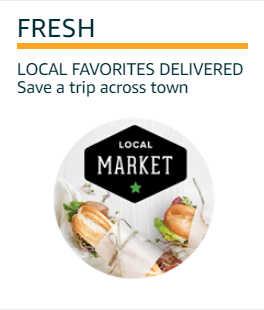
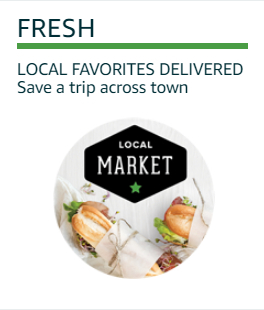
added section 4 recent

Changed region(s): [[0.0606, 0.1161, 0.9394, 0.1742]]

diff --git a/css/styles.css b/css/styles.css
@@ -1,45 +1,33 @@
-.navbar {
-  background-color: #222e3e;
-  display: flex;
-  position: relative; }
+/*
+Errno::EACCES: Permission denied @ unlink_internal - .sass-cache/4a991a89f26c873a8371b34feb04ca6514153998/styles.scssc
 
-.menu {
-  display: flex;
-  align-content: flex-start; }
-  .menu a:link {
-    text-decoration: none;
-    color: white; }
-  .menu a:visited {
-    text-decoration: none;
-    color: white; }
-  .menu a:hover {
-    color: #FF9900;
-    font-weight: bold; }
-  .menu ul {
-    width: 100%; }
-  .menu ul li {
-    list-style: none;
-    float: left; }
-  .menu .nav-left {
-    width: 100px; }
-  .menu img {
-    display: block; }
-
-.hero {
-  width: 100%;
-  background: #eaeded;
-  padding-top: 10px; }
-
-.container-fluid {
-  background: #eaeded;
-  margin: auto; }
-
-.cards {
-  height: 240px;
-  padding: 10px 5.5px; }
-
-.explore {
-  width: 100%;
-  height: 45px; }
-
-/*# sourceMappingURL=styles.css.map */
+Backtrace:
+C:/Ruby24-x64/lib/ruby/gems/2.4.0/gems/sass-3.5.2/lib/sass/cache_stores/filesystem.rb:26:in `unlink'
+C:/Ruby24-x64/lib/ruby/gems/2.4.0/gems/sass-3.5.2/lib/sass/cache_stores/filesystem.rb:26:in `_retrieve'
+C:/Ruby24-x64/lib/ruby/gems/2.4.0/gems/sass-3.5.2/lib/sass/cache_stores/base.rb:63:in `retrieve'
+C:/Ruby24-x64/lib/ruby/gems/2.4.0/gems/sass-3.5.2/lib/sass/cache_stores/chain.rb:25:in `block in retrieve'
+C:/Ruby24-x64/lib/ruby/gems/2.4.0/gems/sass-3.5.2/lib/sass/cache_stores/chain.rb:24:in `each'
+C:/Ruby24-x64/lib/ruby/gems/2.4.0/gems/sass-3.5.2/lib/sass/cache_stores/chain.rb:24:in `each_with_index'
+C:/Ruby24-x64/lib/ruby/gems/2.4.0/gems/sass-3.5.2/lib/sass/cache_stores/chain.rb:24:in `retrieve'
+C:/Ruby24-x64/lib/ruby/gems/2.4.0/gems/sass-3.5.2/lib/sass/engine.rb:407:in `_to_tree'
+C:/Ruby24-x64/lib/ruby/gems/2.4.0/gems/sass-3.5.2/lib/sass/engine.rb:389:in `_render_with_sourcemap'
+C:/Ruby24-x64/lib/ruby/gems/2.4.0/gems/sass-3.5.2/lib/sass/engine.rb:307:in `render_with_sourcemap'
+C:/Ruby24-x64/lib/ruby/gems/2.4.0/gems/sass-3.5.2/lib/sass/plugin/compiler.rb:462:in `update_stylesheet'
+C:/Ruby24-x64/lib/ruby/gems/2.4.0/gems/sass-3.5.2/lib/sass/plugin/compiler.rb:215:in `block in update_stylesheets'
+C:/Ruby24-x64/lib/ruby/gems/2.4.0/gems/sass-3.5.2/lib/sass/plugin/compiler.rb:209:in `each'
+C:/Ruby24-x64/lib/ruby/gems/2.4.0/gems/sass-3.5.2/lib/sass/plugin/compiler.rb:209:in `update_stylesheets'
+C:/Ruby24-x64/lib/ruby/gems/2.4.0/gems/sass-3.5.2/lib/sass/plugin/compiler.rb:443:in `on_file_changed'
+C:/Ruby24-x64/lib/ruby/gems/2.4.0/gems/sass-3.5.2/lib/sass/plugin/compiler.rb:320:in `block in watch'
+C:/Ruby24-x64/lib/ruby/gems/2.4.0/gems/sass-listen-4.0.0/lib/sass-listen/event/config.rb:23:in `call'
+C:/Ruby24-x64/lib/ruby/gems/2.4.0/gems/sass-listen-4.0.0/lib/sass-listen/event/processor.rb:115:in `_process_changes'
+C:/Ruby24-x64/lib/ruby/gems/2.4.0/gems/sass-listen-4.0.0/lib/sass-listen/event/processor.rb:19:in `block in loop_for'
+C:/Ruby24-x64/lib/ruby/gems/2.4.0/gems/sass-listen-4.0.0/lib/sass-listen/event/processor.rb:15:in `loop'
+C:/Ruby24-x64/lib/ruby/gems/2.4.0/gems/sass-listen-4.0.0/lib/sass-listen/event/processor.rb:15:in `loop_for'
+C:/Ruby24-x64/lib/ruby/gems/2.4.0/gems/sass-listen-4.0.0/lib/sass-listen/event/loop.rb:84:in `_wait_for_changes'
+C:/Ruby24-x64/lib/ruby/gems/2.4.0/gems/sass-listen-4.0.0/lib/sass-listen/event/loop.rb:42:in `block in setup'
+C:/Ruby24-x64/lib/ruby/gems/2.4.0/gems/sass-listen-4.0.0/lib/sass-listen/internals/thread_pool.rb:6:in `block in add'
+*/
+body:before {
+  white-space: pre;
+  font-family: monospace;
+  content: "Errno::EACCES: Permission denied @ unlink_internal - .sass-cache/4a991a89f26c873a8371b34feb04ca6514153998/styles.scssc"; }

diff --git a/index.html b/index.html
@@ -84,7 +84,15 @@
     <div class="container-fluid">
       <img src="img/explore bar.jpg" alt="" class="explore">
     </div>
-    <!-- start ur damn carousel already div.carousel-sect>h1.header>img*22 -->
+    <div class="sect">
+      <h3 class="header">More Items to Consider</h3>
+        <img src="img/moreitems1.jpg" alt="">
+        <img src="img/recentitems2.jpg" alt="">
+        <img src="img/items3.jpg" alt="">
+        <img src="img/items4.jpg" alt="">
+        <img src="" alt="">
+        <img src="" alt="">
+    </div>
   </div>
 </body>
 </html>

diff --git a/sass/styles.scss b/sass/styles.scss
@@ -2,7 +2,7 @@
 $amazon-color: #82d8e3;
 $deals-color: #ade422;
 $music-color: #ff5252;
-$fresh-color: #05DF05;
+$fresh-color: #4A9D45;
 $video-color: #ffa724;
 $background-color: #eaeded;
 $font-color: #444;
@@ -66,4 +66,7 @@ $background-navy: #222e3e;
 .explore{
   width: 100%;
   height: 45px;
+}
+.sect img{
+  padding: 5px 5.5px;
 }

diff --git a/README.md b/README.md
@@ -2,11 +2,17 @@ The problems with Amazon's current design are many. It is too busy and could eas
 
 Changes:
 ~ added space between elements
+
 ~ streamlined the cards, navbar links/menus, and carouseled item sections
+
 ~ removed the carousel hero
+
 ~ made color coding of categories more consistent across the site
+
 ~ eliminated empty space on right side
+
 ~ changed ad and explore layout
+
 ~ attempted to improve responsiveness on desktop
 # amazon
 # amazon
